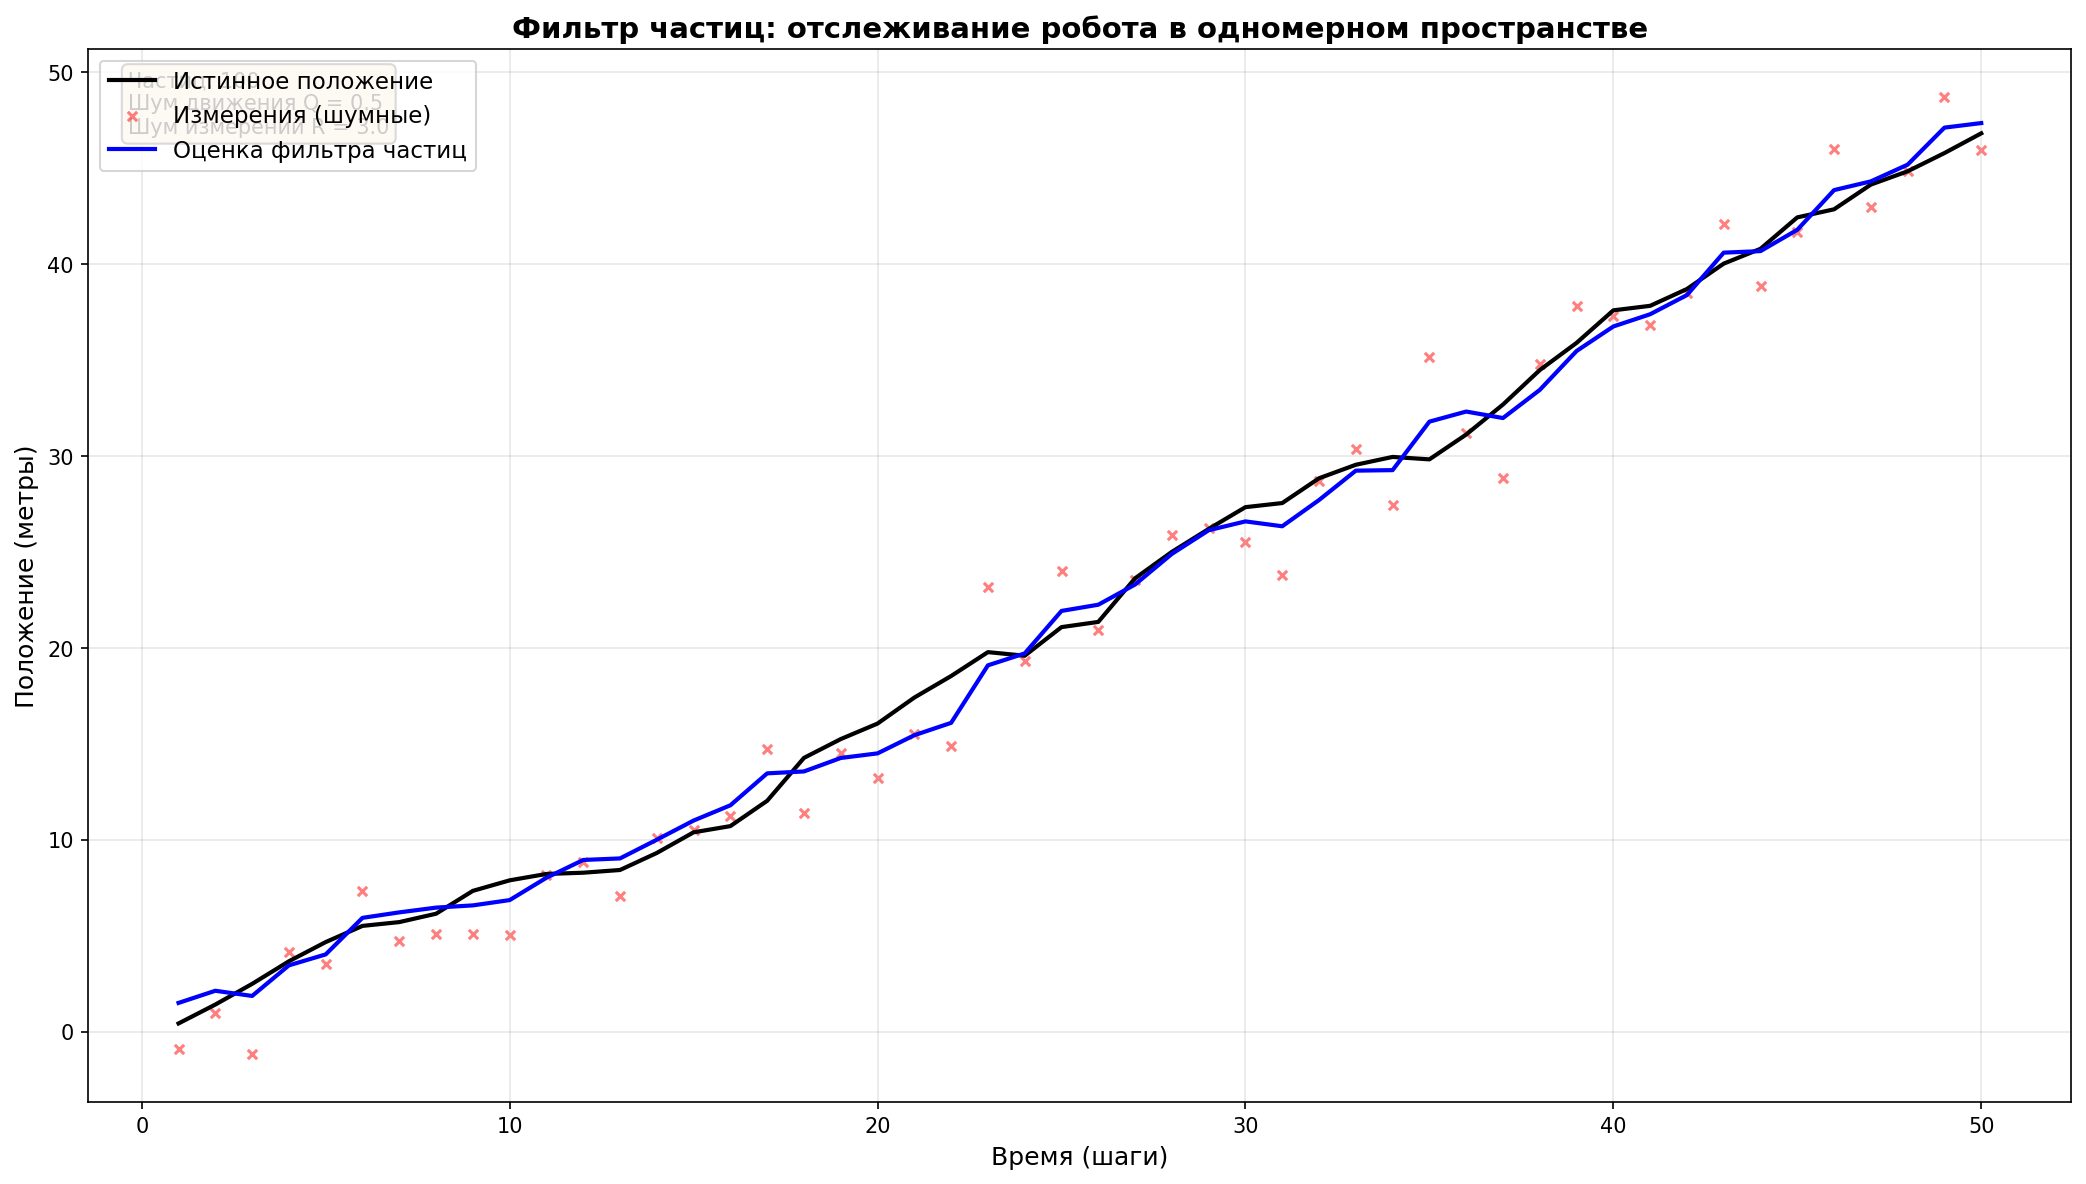
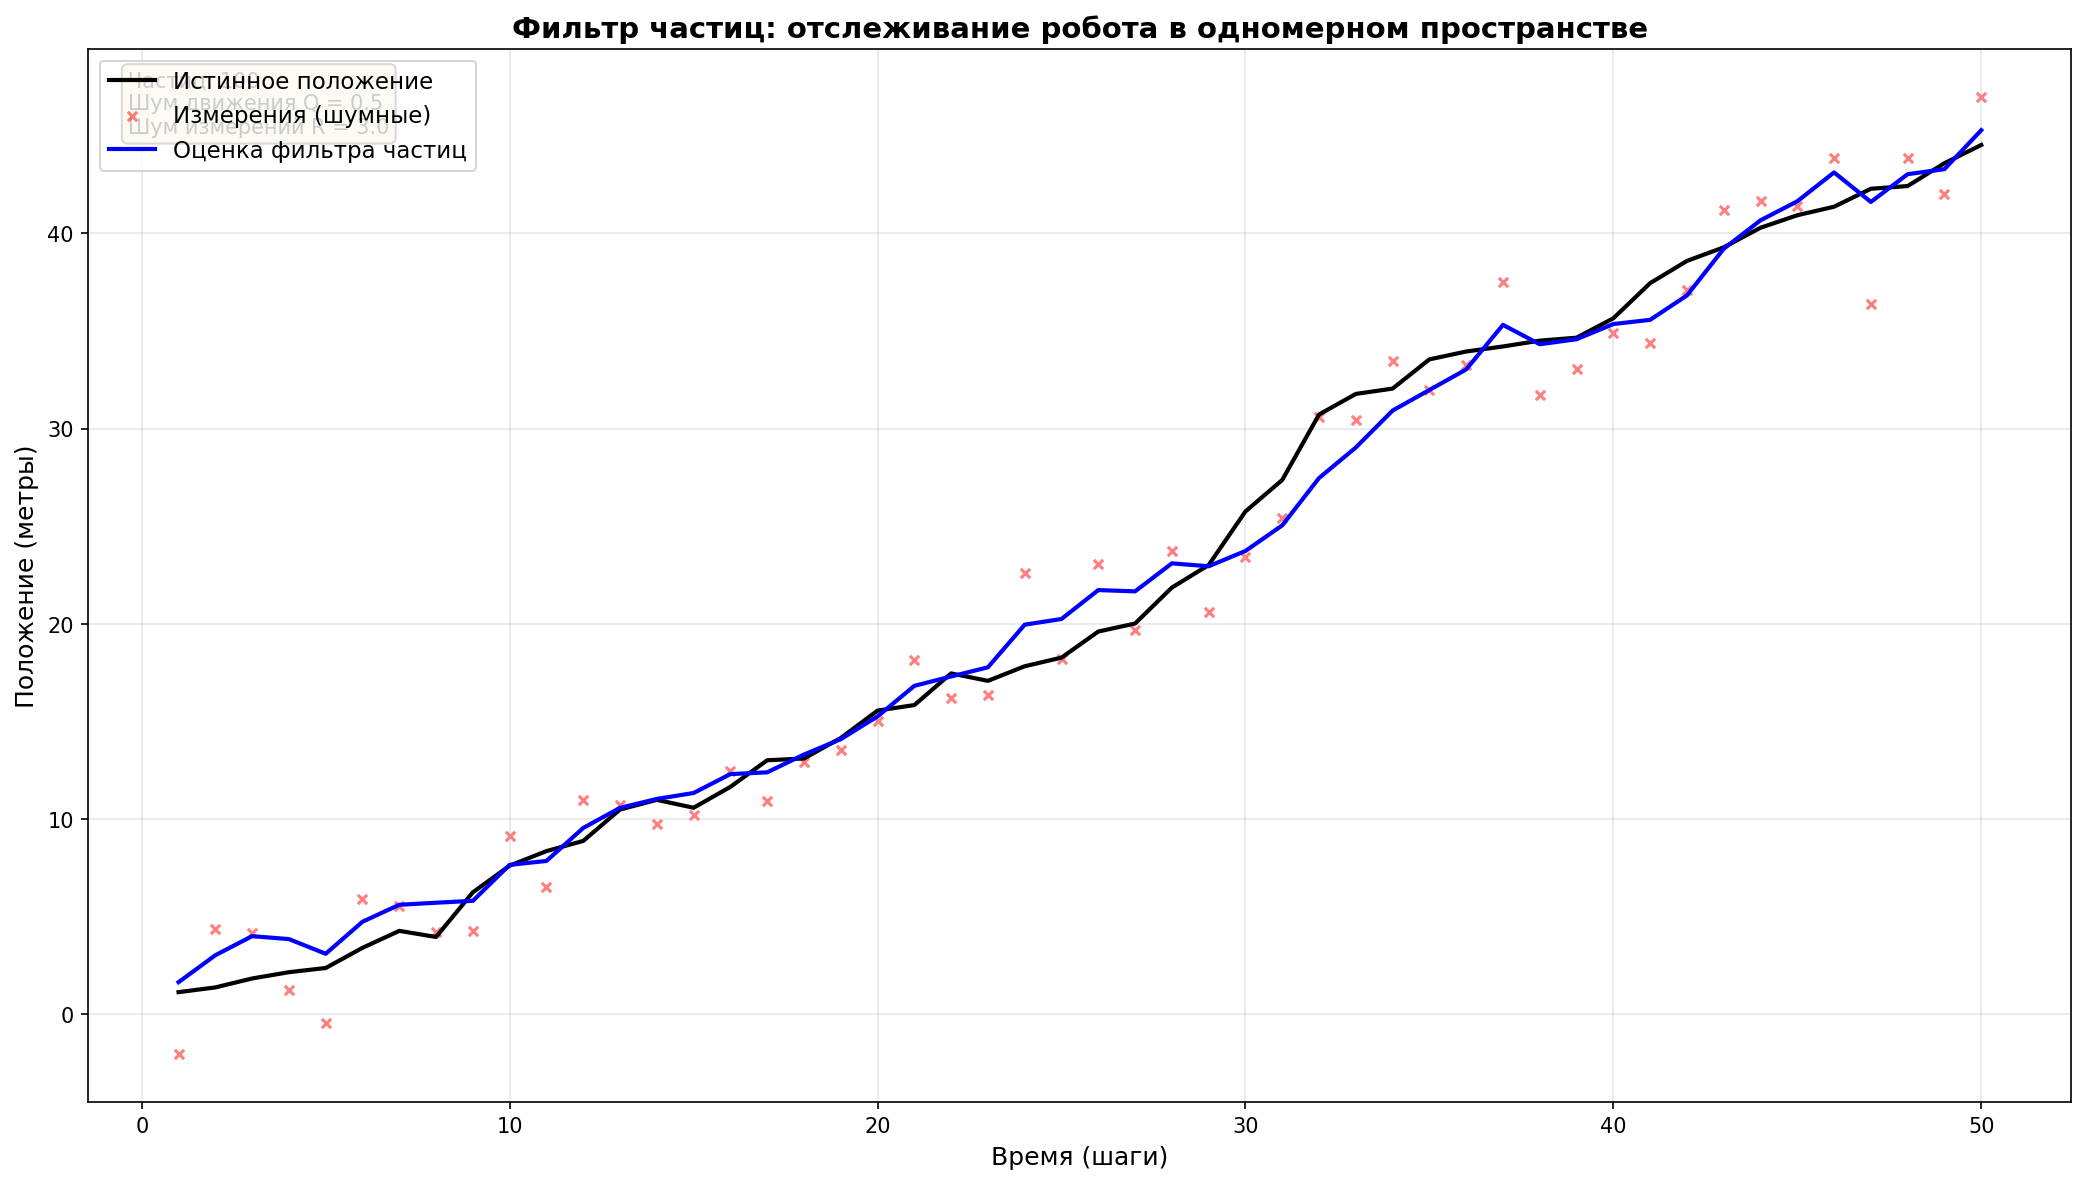
change all

Changed region(s): [[0.0935, 0.3125, 0.7167, 0.875], [0.6855, 0.0938, 0.966, 0.3438]]

diff --git a/main_file/main.c b/main_file/main.c
@@ -1,7 +1,7 @@
 //  Симулирует движение робота по коридору от 0 до 100 метров.
 //  Робот движется со скоростью ~1 м/с с шумом (проскальзывание колёс)
 //  Датчик даёт зашумлённые измерения.
-//  Фильтр частиц оценивает истинное положение робота.
+// Фильтр частиц оценивает истинное положение робота.
 
 #include <stdio.h>
 #include <stdlib.h>
@@ -16,14 +16,12 @@
 #define X_MIN           0.0     // Минимальное начальное положение
 #define X_MAX           100.0   // Максимальное начальное положение
 #define TIME_STEPS      50      // Количество шагов симуляции 
-#define RESAMPLE_THRESHOLD 0.5  //Порог ESS для ресемплирования (N/2)
+#define RESAMPLE_THRESHOLD 0.5  // Порог ESS для ресемплирования (N/2)
 
 static void print_table_header(void) {
     printf("\n");
-    printf("+------+--------+-----------+--------+----------+\n");
     printf("| Step | Truth  | Measured  | Filter | Error    |\n");
     printf("|      | (м)    | (м)       | (м)    | (м)      |\n");
-    printf("+------+--------+-----------+--------+----------+\n");
 }
 
 static void print_table_row(int step, double truth, double meas, 
@@ -66,7 +64,7 @@ int main(int argc, char *argv[]) {
 
     fprintf(output_file, "step,true_position,measurement,estimate\n");
 
-    double x_true = 0.0;                    //Истинное положение
+    double x_true = 0.0; //истинное положение
     double *errors = (double*)malloc(TIME_STEPS * sizeof(double));
     if (errors == NULL) {
         fprintf(stderr, "Ошибка: не удалось выделить память для errors\n");
@@ -85,13 +83,13 @@ int main(int argc, char *argv[]) {
         double measurement_noise = gaussian_noise(0.0, sqrt(R_MEASUREMENT));
         double z = x_true + measurement_noise;
         
-        /* ===== РАБОТА ФИЛЬТРА ===== */
+        // работа фильтра
         predict(pf, Q_PROCESS);                    //Предсказание
         update_weights(pf, z, R_MEASUREMENT);      //Обновление весов
         normalize_weights(pf);                      //Нормализация
         double estimate = estimate_position(pf);   //Оценка
         
-        // адаптивное ресемплирование по ESS
+        //ресемплирование по ESS
         double ess = compute_ess(pf);
         if (ess < N_PARTICLES * RESAMPLE_THRESHOLD) {
             resample(pf);

diff --git a/main_file/tests.c b/main_file/tests.c
@@ -22,7 +22,7 @@ void test_pf_create() {
 
     pf_free(pf);
 
-    printf("✓ test_pf_create passed\n");
+    printf("test_pf_create passed\n");
 }
 
 void test_gaussian_noise() {
@@ -33,7 +33,7 @@ void test_gaussian_noise() {
         assert(!isinf(x));
     }
 
-    printf("✓ test_gaussian_noise passed\n");
+    printf("test_gaussian_noise passed\n");
 }
 
 void test_normalize_weights() {
@@ -55,7 +55,7 @@ void test_normalize_weights() {
 
     pf_free(pf);
 
-    printf("✓ test_normalize_weights passed\n");
+    printf("test_normalize_weights passed\n");
 }
 
 void test_estimate_position() {
@@ -73,7 +73,7 @@ void test_estimate_position() {
 
     pf_free(pf);
 
-    printf("✓ test_estimate_position passed\n");
+    printf("test_estimate_position passed\n");
 }
 
 void test_compute_ess() {
@@ -90,7 +90,7 @@ void test_compute_ess() {
 
     pf_free(pf);
 
-    printf("✓ test_compute_ess passed\n");
+    printf("test_compute_ess passed\n");
 }
 
 void test_predict() {
@@ -106,7 +106,7 @@ void test_predict() {
 
     pf_free(pf);
 
-    printf("✓ test_predict passed\n");
+    printf("test_predict passed\n");
 }
 
 void test_resample() {
@@ -127,7 +127,7 @@ void test_resample() {
 
     pf_free(pf);
 
-    printf("✓ test_resample passed\n");
+    printf("test_resample passed\n");
 }
 
 void test_is_filter_valid() {
@@ -137,12 +137,10 @@ void test_is_filter_valid() {
 
     pf_free(pf);
 
-    printf("✓ test_is_filter_valid passed\n");
+    printf("test_is_filter_valid passed\n");
 }
 int main() {
     srand(time(NULL));
-
-    printf("\nRunning tests...\n\n");
 
     test_pf_create();
     test_gaussian_noise();

diff --git a/main_file/filter.c b/main_file/filter.c
@@ -3,6 +3,9 @@
 #include <math.h>
 #include <string.h>
 #include "filter.h"
+#ifndef M_PI
+#define M_PI 3.14159265358979323846
+#endif
 
 static int check_filter(const Filter *pf, const char *func_name) {
     if (pf == NULL) {
@@ -32,8 +35,7 @@ double gaussian_noise(double mean, double sigma) {
         return mean + sigma * spare;
     }
     
-    //Преобразование Бокса-Мюллера
-
+    //преобразование Бокса-Мюллера
     double u1 = (double)rand() / RAND_MAX;
     double u2 = (double)rand() / RAND_MAX;
     
@@ -182,7 +184,7 @@ void resample(Filter *pf) {
         return;
     }
     
-    // кумулятивная сумма весов
+    //сумма весов
     double *cumulative = (double*)malloc(pf->N * sizeof(double));
     if (cumulative == NULL) {
         fprintf(stderr, "Ошибка resample(): не удалось выделить память для cumulative\n");
@@ -210,7 +212,7 @@ void resample(Filter *pf) {
         new_weights[i] = 1.0 / pf->N;
     }
     
-    // замена старых массивов новыми
+    //замена старых массивов новыми
     free(pf->particles);
     free(pf->weights);
     free(cumulative);
